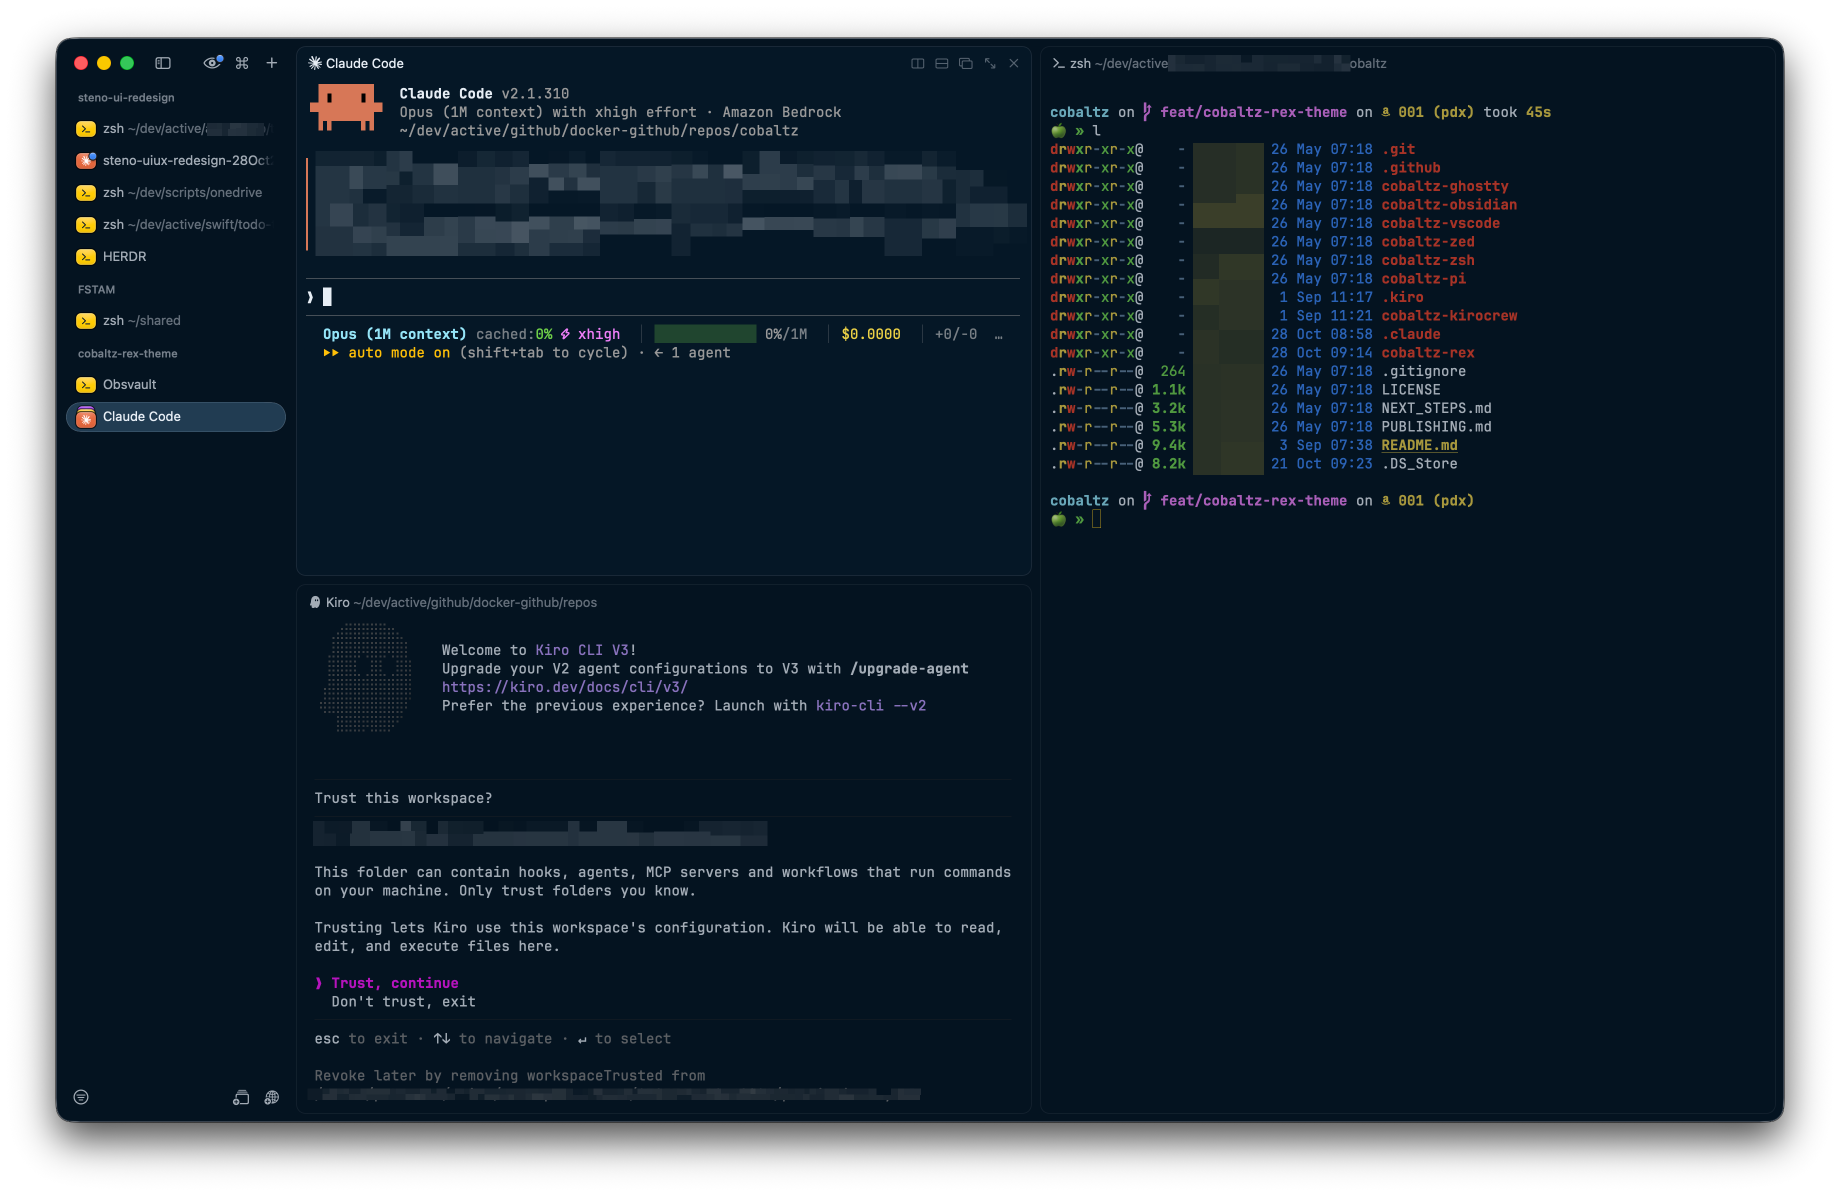
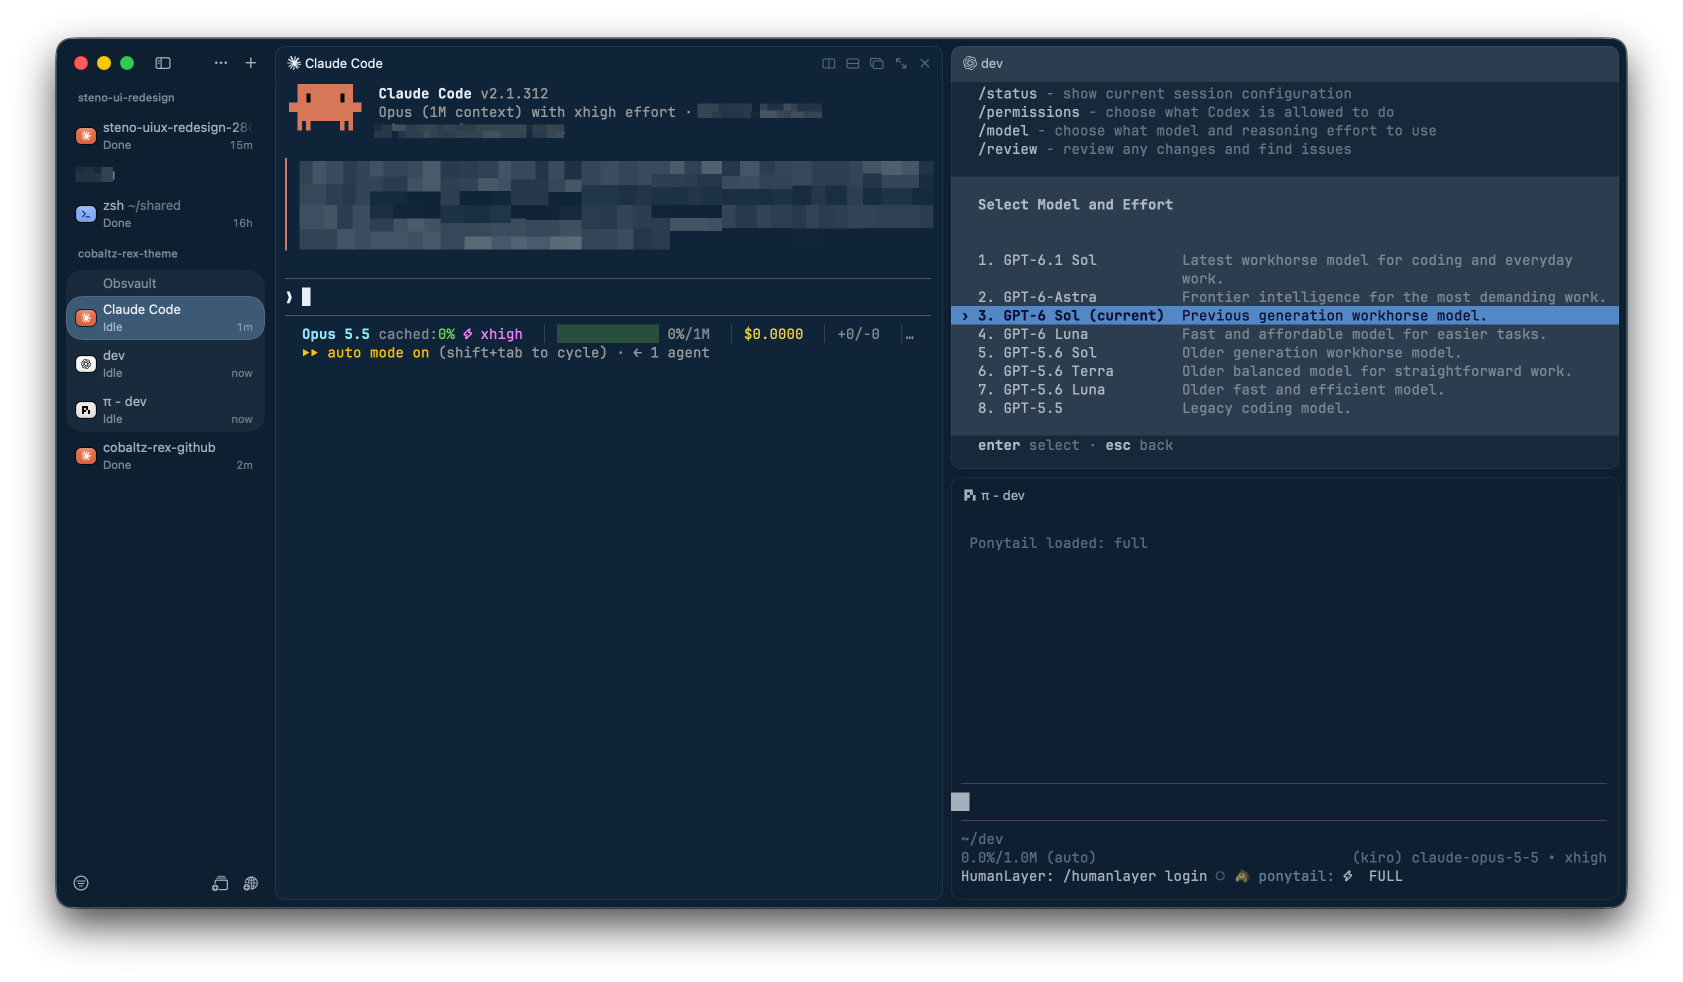
feat(rex): adopt Cobaltz layer blues in dark theme
Move the background back to the Cobaltz page blue so Rex's border
overlays land on the sidebar and fill blues, switch the accent
(cursor) to blue #82AAFF, use cobalt #3478C6 for selection, and
set ANSI 0 to the sidebar blue. Update the README and screenshot.

diff --git a/cobaltz-rex/README.md b/cobaltz-rex/README.md
@@ -1,6 +1,6 @@
 # Cobaltz Theme for Rex
 
-Cobaltz tuned for [Rex](https://rex.superlogical.com), the terminal multiplexer by Superlogical. It keeps the Cobaltz hues, syntax accents, and cursor colors, and adjusts the base colors so Rex's pane borders, active-pane highlight, and selected tab stay distinct when several panes are open.
+Cobaltz tuned for [Rex](https://rex.superlogical.com), the terminal multiplexer by Superlogical. It keeps the Cobaltz blues and syntax accents, and adjusts the base and accent colors so Rex's pane borders, active-pane highlight, and selected tab stay distinct when several panes are open.
 
 | Dark | Light |
 | ---- | ----- |
@@ -26,14 +26,14 @@ Rex builds its window chrome from the theme's base colors, so the [Ghostty theme
 
 ### Dark
 
-Pane borders are fixed white overlays (7% for inactive panes, 10% for the active pane), and sidebars and raised surfaces step up in lightness from the background. Those values are tuned for the deep backgrounds of Rex's built-in dark themes. The Ghostty background (`#0F2438`) is brighter than any of them, so the same overlay adds less relative contrast and pane borders read faintly.
+Pane borders are fixed white overlays (7% for inactive panes, 10% for the active pane), and sidebars and raised surfaces step up in lightness from the background. On the Cobaltz page blue (`#0F2438`), those overlays land on the Cobaltz layer blues: `#20354A` for inactive panes and `#2D4051` for the active pane. Rex also uses the cursor color as its accent for sidebar icons and focus, so the dark variant moves the accent from gold to blue.
 
 | Element | Ghostty | Rex | Reason |
 | ------- | ------- | --- | ------ |
-| Background | `#0F2438` | `#051626` | Same cobalt hue at the depth of Rex's built-in dark themes, so pane borders read clearly |
 | Foreground | `#FFFFFF` | `#E7EEF5` | Cool soft white in the range Rex's built-in themes use, with less glare across many panes |
-| Selection | `#3D5A73` | `#183B5C` | Saturated cobalt one step above the canvas |
-| Black (ANSI 0) | `#0F2438` | `#0F2438` | Now sits one step above the background instead of matching it |
+| Cursor | `#FFCC00` | `#82AAFF` | Rex's accent: Cobaltz blue for sidebar icons and focus, as in the Cobaltz function color |
+| Selection | `#3D5A73` | `#3478C6` | Cobalt selection with white text at 4.5:1 contrast |
+| Black (ANSI 0) | `#0F2438` | `#20354A` | Cobaltz sidebar blue, one step above the background instead of matching it |
 
 ### Light
 
@@ -45,16 +45,16 @@ Rex fills the active pane and the selected tab with surfaces lifted toward white
 | Selection | `#DBEAFE` | `#C4DCF7` | Deeper blue so selections stand out against the tinted background |
 | White (ANSI 7) | `#F9FAFB` | `#CBD5E1` | Light gray that stays visible on the background |
 
-Cursor colors and every other ANSI color are unchanged in both variants. Rex uses the cursor color as its accent, so the focus highlight is Cobaltz gold in dark and Cobaltz blue in light.
+The dark background matches the Ghostty theme, and the light cursor and every other ANSI color are unchanged in both variants.
 
 ## Color Palette
 
 | Element    | Dark      | Light     |
 | ---------- | --------- | --------- |
-| Background | `#051626` | `#EFF4FA` |
+| Background | `#0F2438` | `#EFF4FA` |
 | Foreground | `#E7EEF5` | `#0F2438` |
-| Cursor     | `#FFCC00` | `#2563EB` |
-| Selection  | `#183B5C` | `#C4DCF7` |
+| Cursor     | `#82AAFF` | `#2563EB` |
+| Selection  | `#3478C6` | `#C4DCF7` |
 | Red        | `#EA4025` | `#DC2626` |
 | Green      | `#70D149` | `#059669` |
 | Yellow     | `#ECD146` | `#D97706` |
